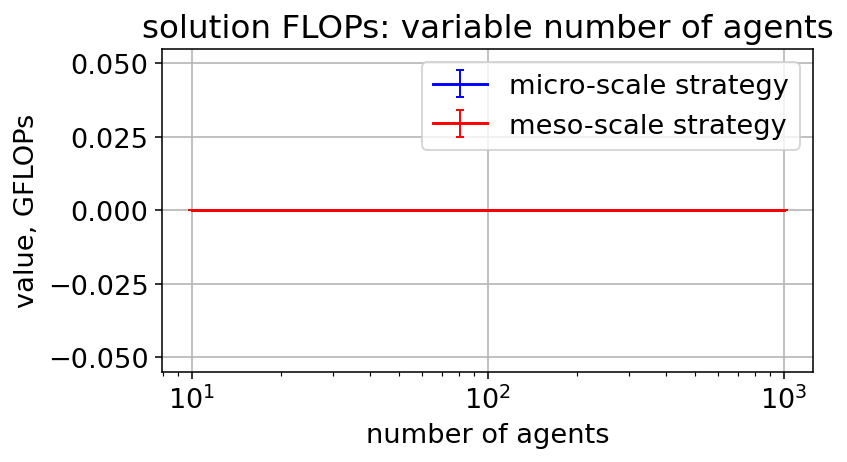
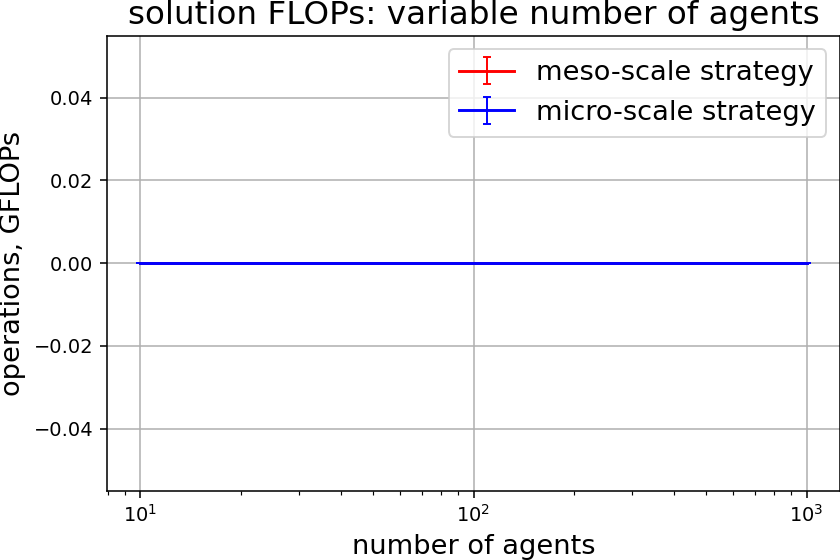
fixed plot scaling

Changed region(s): [[0.0, 0.0, 1.0, 1.0]]

diff --git a/src/plot/plotter.py b/src/plot/plotter.py
@@ -29,15 +29,15 @@ rename = {
 }
 
 units = {
-    'solution_time': 'seconds',
-    'cvx_time': 'seconds',
-    'cvx_time_nocoup': 'seconds',
-    'cvx_ops': 'GFLOPs',
-    'cvx_ops_nocoup': 'GFLOPs',
-    'cost_val': 'cost',
-    'cost': 'cost',
-    'j0_val': 'cost',
-    'j0': 'cost',
+    'solution_time': 'time, seconds',
+    'cvx_time': 'time, seconds',
+    'cvx_time_nocoup': 'time, seconds',
+    'cvx_ops': 'operations, GFLOPs',
+    'cvx_ops_nocoup': 'operations, GFLOPs',
+    'cost_val': 'cost value',
+    'cost': 'cost value',
+    'j0_val': 'cost value',
+    'j0': 'cost value',
     'rad_max': 'cluster radius',
     'avg_goal_dist': r'$\ell_2$ distance',
     'distance': r'$\ell_2$ distance',
@@ -91,7 +91,7 @@ def exprt_results(dfs_perstrat, param_col, xvalues,
     plt.rcParams.update({'font.size': 14})
     for means, stds in zip(mean_cols, std_cols):
         data_name = means[:-5]
-        fig, ax = plt.subplots(figsize=(6, 3), dpi=140)
+        fig, ax = plt.subplots(figsize=(6, 4), dpi=140)
         for sdx, (strat, df) in enumerate(dfs_perstrat.items()):
             ax.errorbar(xvalues, df[means], df[stds], 
                         c=colors[strat], elinewidth=1, capsize=2, capthick=1,
@@ -107,21 +107,23 @@ def exprt_results(dfs_perstrat, param_col, xvalues,
                 ax.set_yscale(yscale)
             #ax.xaxis.set_major_formatter(mticker.ScalarFormatter())
             #ax.xaxis.set_minor_formatter(mticker.ScalarFormatter())
+            ax.tick_params(axis='both', which='major', labelsize=10)
             ax.set_title(f'{rename[data_name]}: variable {rename[param_col]}')
-            ax.set_ylabel(f'value, {units[data_name]}')
+            ax.set_ylabel(units[data_name])
             ax.set_xlabel(rename[param_col])
             ax.legend()
         #plt.show()
         if save_dir is not None:
-            plt.savefig(save_dir + f'{data_name}_{param_col}.png', bbox_inches='tight')
+            plt.tight_layout(pad=0, w_pad=0, h_pad=0)
+            plt.savefig(save_dir + f'{data_name}_{param_col}.png')#, bbox_inches='tight')
 
 
 def exprt_dynamics(data, nd, info_string, info_string_simple, save_dir):
     x = np.arange(nd) + 1
-    plt.rcParams.update({'font.size': 18})
+    plt.rcParams.update({'font.size': 14})
     for ftr, subdat in data.items():
         #colors = cm.rainbow(np.linspace(0, 1, len(list(subdat.keys()))))
-        fig, ax = plt.subplots(figsize=(6, 3), dpi=200)
+        fig, ax = plt.subplots(figsize=(6, 2), dpi=140)
         for sdx, (strat, ssdat) in enumerate(subdat.items()):
             ax.plot(x[3:], ssdat[3:], 
                     c=colors[strat], linewidth=1,
@@ -129,9 +131,10 @@ def exprt_dynamics(data, nd, info_string, info_string_simple, save_dir):
         ax.grid('major')
         ax.tick_params(axis='both', which='major', labelsize=10)
         ax.set_title(rename[ftr] + ', ' + info_string)
-        ax.set_ylabel(f'value, {units[ftr]}')
+        ax.set_ylabel(units[ftr])
         ax.set_xlabel(r'$\tau$')
         ax.legend()
         #plt.show()
         if save_dir is not None:
-            plt.savefig(save_dir + f'{ftr}_{info_string_simple}.png', bbox_inches='tight')
+            plt.tight_layout(pad=0, w_pad=0, h_pad=0)
+            plt.savefig(save_dir + f'{ftr}_{info_string_simple}.png')#, bbox_inches='tight')
